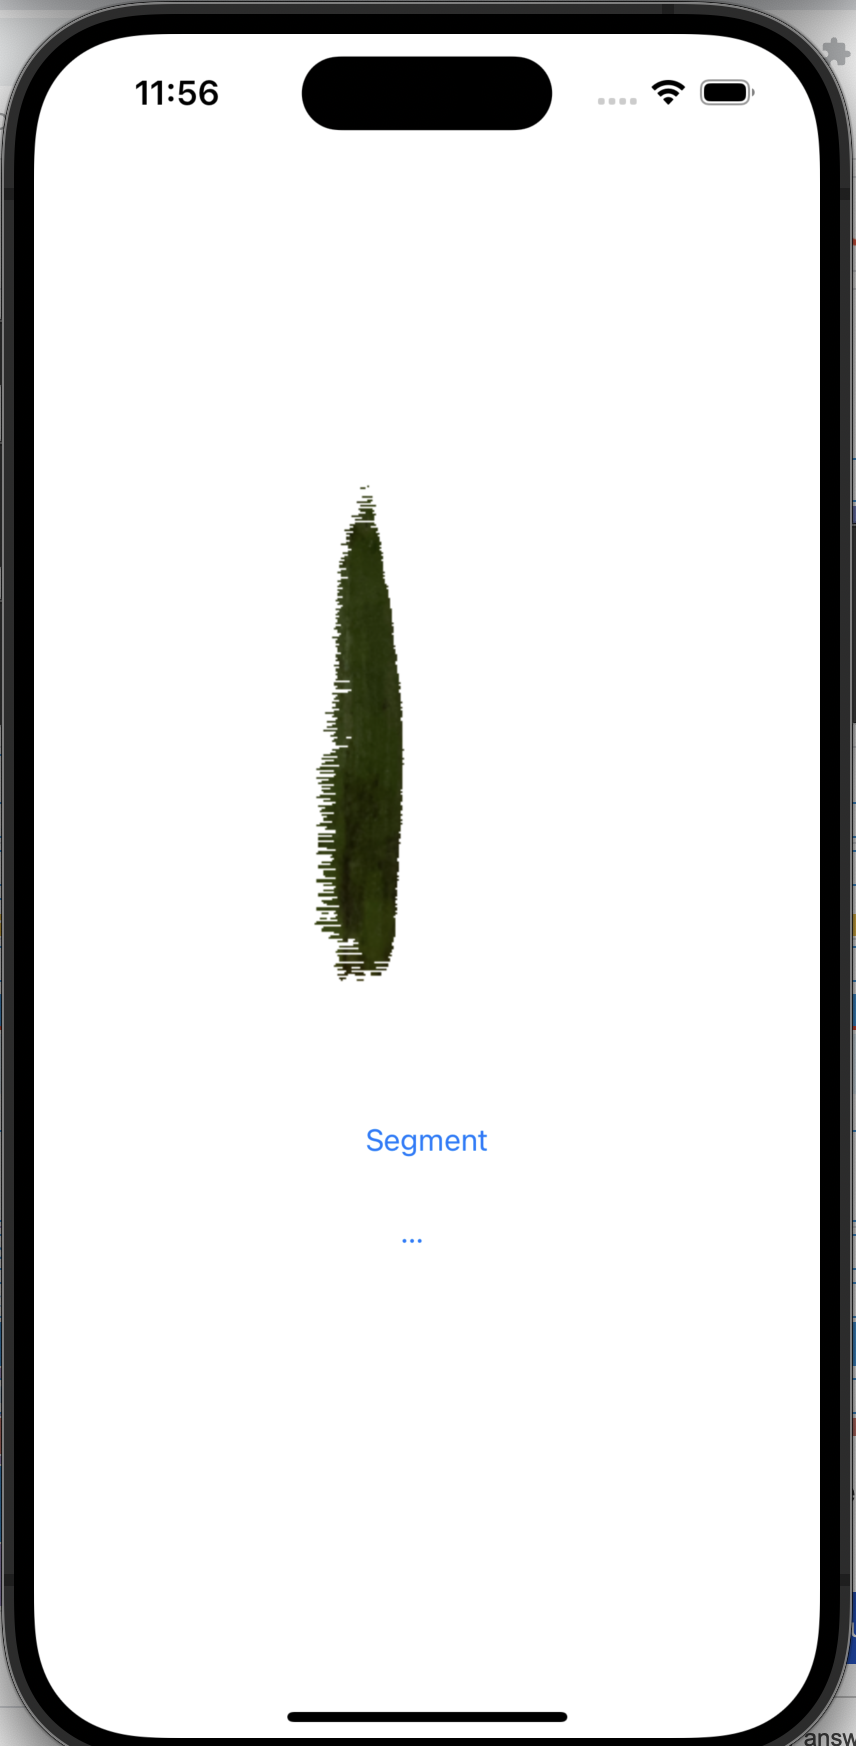
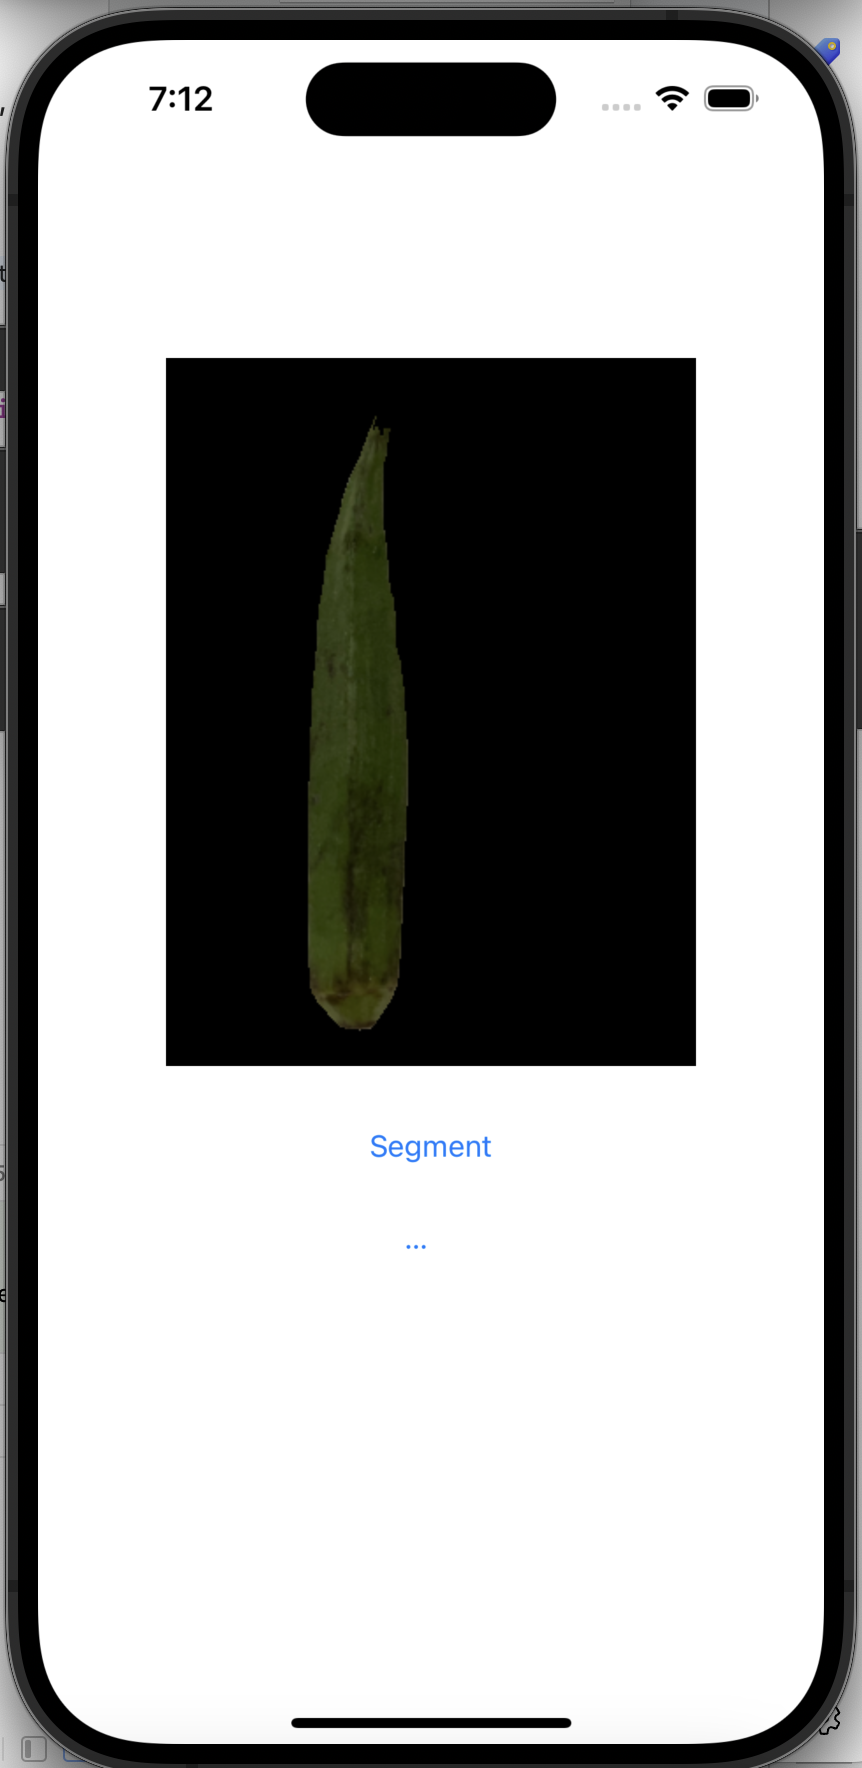
improved okra segmentation accuracy

Changed region(s): [[0.1822, 0.1856, 0.8201, 0.6804], [0.0, 0.0, 1.0, 1.0]]

diff --git a/iosApp/ImageSegmentation/TorchModule.mm b/iosApp/ImageSegmentation/TorchModule.mm
@@ -4,6 +4,7 @@
 // This source code is licensed under the BSD-style license found in the
 // LICENSE file in the root directory of this source tree.
 
+
 #import "TorchModule.h"
 #import "UIImageHelper.h"
 #import <CoreImage/CoreImage.h>
@@ -13,6 +14,13 @@
 @implementation TorchModule {
 @protected
     torch::jit::script::Module _impl;
+}
+
+typedef void (*callbackType)(unsigned char* outputImgBuffer, at::Tensor& inputImgTensor, at::Tensor& okraSegMask, int width, int height, int w, int h, int& inpR, int& inpG, int& inpB);
+
+static uint32_t convertPixelCoordToIndex(uint32_t width, uint32_t x, int y) {
+    int n = 3 * (y * width + x);
+    return n;
 }
 
 - (nullable instancetype)initWithFileAtPath:(NSString*)filePath {
@@ -29,153 +37,131 @@
     return self;
 }
 
-- (void)testLayoutAndOrientation:(unsigned char*)buffer withWidth:(int)width withHeight:(int)height {
+
+
+
+static void updateOutputImgColor(unsigned char* outputImgBuffer, int width, int height, int w, int h, int& r, int& g, int& b) {
+    int n = convertPixelCoordToIndex(width, w, h);
+    outputImgBuffer[n] = r; outputImgBuffer[n+1] = g; outputImgBuffer[n+2] = b;
+}
+
+// assumes given tensor shape is NCHW.
+static void copyColorFromInputImg(unsigned char* outputImgBuffer, at::Tensor& inputImgTensor, at::Tensor& okraSegMask /* Ignored */, int width, int height, int w, int h, int& inpR, int& inpG, int& inpB) {
+    
+    inpR = *((inputImgTensor[0][0][w][h]).data_ptr<float>()) * 255;
+    inpG = *((inputImgTensor[0][1][w][h]).data_ptr<float>()) * 255;
+    inpB = *((inputImgTensor[0][2][w][h]).data_ptr<float>()) * 255;
+}
+
+static void copyFromOkraSegMask(unsigned char* outputImgBuffer, at::Tensor& inputImgTensor, at::Tensor& okraSegMask, int width, int height, int w, int h, int& inpR, int& inpG, int& inpB) {
+    
+    Float32 probPixelIsOnOkra = *((okraSegMask[0][0][w][h]).data_ptr<Float32>());
+    
+    inpR = probPixelIsOnOkra * 255;
+    inpG = 0;
+    inpB = 0;
+
+}
+
+// assumes given tensor shape is NCWH.
+static void copyOkraPixelsFromInputImg(unsigned char* outputImgBuffer, at::Tensor& inputImgTensor, at::Tensor& okraSegMask, int width, int height, int w, int h, int& inpR, int& inpG, int& inpB) {
+    
+    Float32 probPixelIsOnOkra = *((okraSegMask[0][0][w][h]).data_ptr<Float32>());
+    
+    // if (h == 200)
+    //    NSLog(@"mask (%d, %d) : %f", w, h, probPixelIsOnOkra);
+    
+    if (probPixelIsOnOkra > 0.98) {
+        inpR = *((inputImgTensor[0][0][w][h]).data_ptr<float>()) * 255;
+        inpG = *((inputImgTensor[0][1][w][h]).data_ptr<float>()) * 255;
+        inpB = *((inputImgTensor[0][2][w][h]).data_ptr<float>()) * 255;
+    } else {
+        // Blacken non-Okra part of the image
+        inpR = 0;
+        inpG = 0;
+        inpB = 0;
+    }
+
+}
+
+static void drawTestBand(unsigned char* outputImgBuffer, at::Tensor& inputImgTensor /* Ignored */, at::Tensor& okraSegMask /* Ignored */, int width, int height, int w, int h, int& inpR, int& inpG, int& inpB) {
+    
+    inpR = 0;
+    inpG = 0;
+    inpB = 0;
+    
+
+    if (w > 50 && w < 150)
+        inpR = 255;
+    if (h > 350 && h < 400)
+        inpG = 255;
+    
+}
+
+static void forEachInputAndOutputImgBufferElem (callbackType getPerElemColorFn, at::Tensor& inputImgTensor, unsigned char* outputImgBuffer, at::Tensor& okraSegMask, int width, int height) {
+    
+    int inpR = 0;
+    int inpG = 0;
+    int inpB = 0;
+    
+    
+    // permuted shape: NCWH as needed by segmentation model
+    // tensor = tensor.permute({0,1,3,2});
+    
     for (int w = 0; w < width; w++) {
         for (int h = 0; h < height; h++) {
-            int n = 3 * (h * width + w);
-            buffer[n] = 0; buffer[n+1] = 0; buffer[n+2] = 0;
-            if (w > 50 && w < 150)
-                buffer[n] = 255;
-            if (h > 250 && h < 350)
-                buffer[n+1] = 255;
-            
+            getPerElemColorFn(outputImgBuffer, inputImgTensor, okraSegMask, width, height, w, h, inpR, inpG, inpB);
+            updateOutputImgColor(outputImgBuffer, width, height, w, h, inpR, inpG, inpB);
         }
     }
-    return;
 }
 
-- (uint32_t)convertPixelCoordToIndex:(uint32_t)width withPixelX:(uint32_t)x withPixelY:(int)y {
-    int n = 3 * (y * width + x);
-    return n;
+
+static void testLayoutAndOrientation(at::Tensor& inputImgTensor, unsigned char* outputImgBuffer, at::Tensor& okraSegMask, int width, int height) {
+    forEachInputAndOutputImgBufferElem(drawTestBand, inputImgTensor, outputImgBuffer, okraSegMask, width, height);
+}
+ 
+static void sanityTest1 (at::Tensor&  inputImgTensor, unsigned char* outputImgBuffer, at::Tensor& okraSegMask, int width, int height) {
+    forEachInputAndOutputImgBufferElem(copyColorFromInputImg, inputImgTensor, outputImgBuffer, okraSegMask, width, height);
 }
 
-- (void)displayPixelColor:(unsigned char*)buffer withIndex:(uint32_t)index withR:(int)r withG:(int)g withB:(int)b {
-    buffer[index] = r; buffer[index+1] = g; buffer[index+2] = b;
-    return;
+static void applyOkraSegmentMask (at::Tensor&  inputImgTensor, unsigned char* outputImgBuffer, at::Tensor& okraSegMask, int width, int height) {
+    forEachInputAndOutputImgBufferElem(copyOkraPixelsFromInputImg, inputImgTensor, outputImgBuffer, okraSegMask, width, height);
 }
 
 - (unsigned char*)segmentImage:(void *)imageBuffer withWidth:(int)width withHeight:(int)height {
     try {
         
         // see http://host.robots.ox.ac.uk:8080/pascal/VOC/voc2007/segexamples/index.html for the list of classes with indexes
-        // const int CLASSNUM = 21;
-        // const int DOG = 12;
-        // const int PERSON = 15;
-        // const int SHEEP = 17;
         const int CLASSNUM = 1;
         const int OKRA = 0;
 
-        at::Tensor tensor = torch::from_blob(imageBuffer, { 1, 3, width, height }, at::kFloat);
-
-        float* floatInput = tensor.data_ptr<float>();
-        if (!floatInput) {
-            return nil;
-        }
-        NSMutableArray* inputs = [[NSMutableArray alloc] init];
-        for (int i = 0; i < 3 * width * height; i++) {
-            [inputs addObject:@(floatInput[i])];
-        }
-
+        // native shape: NCHW
+        at::Tensor tensor = torch::from_blob(imageBuffer, { 1, 3, height, width }, at::kFloat);
+        
+        // permuted shape: NCWH as needed by segmentation model
+        tensor = tensor.permute({0,1,3,2});
+        
+    
         c10::InferenceMode guard;
         
         CFTimeInterval startTime = CACurrentMediaTime();
         // auto outputDict = _impl.forward({ tensor }).toGenericDict();
         // auto outputTensor = outputDict.at("out").toTensor();
-        
-        //void(^tuple)(at::Tensor, at::Tensor, at::Tensor, at::Tensor, at::Tensor, at::Tensor, at::Tensor) = _impl.forward({ tensor });
-        
+                
         auto outputTensor = _impl.forward({ tensor }).toTuple()->elements()[0].toTensor();
-        
-        //at::Tensor outputTensor, d1, d2, d3, d4, d5, d6;
-        //tuple(outputTensor, d1, d2, d3, d4, d5, d6);
-        
+                
         CFTimeInterval elapsedTime = CACurrentMediaTime() - startTime;
         NSLog(@"inference time:%f", elapsedTime);
         
- 
-        // std::vector<at::IValue> elements = outputTuple->elements();
-        // auto outputTensor = elements[0].toTensor();
-        float* floatBuffer = outputTensor.data_ptr<float>();
-        if (!floatBuffer) {
-            return nil;
-        }
-        NSMutableArray* results = [[NSMutableArray alloc] init];
-        for (int i = 0; i < CLASSNUM * width * height; i++) {
-            [results addObject:@(floatBuffer[i])];
-        }
-
         NSMutableData* data = [NSMutableData dataWithLength:sizeof(unsigned char) * 3 * width * height];
         unsigned char* buffer = (unsigned char*)[data mutableBytes];
         
-        // [self testLayoutAndOrientation:buffer withWidth:width withHeight:height];
-        
-        // go through each element in the output of size [WIDTH, HEIGHT] and
-        // set different color for different classnum
-        int r, g, b, a;
-        for (int j = 0; j < width; j++) {
-            for (int k = 0; k < height; k++) {
-                /*
-                int maxi = 0, maxj = 0, maxk = 0;
-                float maxnum = -100000.0;
-                for (int i = 0; i < CLASSNUM; i++) {
-                    if ([results[i * (width * height) + j * width + k] floatValue] > maxnum) {
-                        maxnum = [results[i * (width * height) + j * width + k] floatValue];
-                        maxi = i; maxj = j; maxk = k;
-                    }
-                }
 
-                int n = 3 * (maxj * width + maxk);
-                // color coding for person (red), dog (green), sheep (blue)
-                // black color for background and other classes
-                buffer[n] = 0; buffer[n+1] = 0; buffer[n+2] = 0;
-                if (maxi == PERSON) buffer[n] = 255;
-                else if (maxi == DOG) buffer[n+1] = 255;
-                else if (maxi == SHEEP) buffer[n+2] = 255;
-                */
-                
-                /*
-                 // input tensor
-                r = *((tensor[0][0][k][j]).data_ptr<float>()) * 255;
-                g = *((tensor[0][1][k][j]).data_ptr<float>()) * 255;
-                b = *((tensor[0][2][k][j]).data_ptr<float>()) * 255;
-                */
-                
-                 // mask prediction
-                Float32 mask = *((outputTensor[0][0][j][k]).data_ptr<Float32>());
-                int32_t imask = static_cast<int32_t>(mask);
-                
-                
-                r = imask * 255;
-                g = (imask >> 8) * 255;
-                b = (imask >> 16) * 255;
-                a = (imask >> 24) * 255;
-                
-                
-                  // OkraSurface pixels: (112,200) imask:0 a:0 r:0 g:0 b:0
-                  // non-OkraSurface pixels: (118,200) imask:-1 a:255 r:255 g:255 b:255
-                 
-                if (j == 102)
-                    NSLog(@"(%d,%d) imask:%d a:%d r:%d g:%d b:%d", j, k, imask, a, r,g,b);
-                
-                
-               
-                
-                r = g = b = 255;
-                
-                if (imask == 1) {
-                    r = *((tensor[0][0][j][k]).data_ptr<float>()) * 255;
-                    g = *((tensor[0][1][j][k]).data_ptr<float>()) * 255;
-                    b = *((tensor[0][2][j][k]).data_ptr<float>()) * 255;
-                    
-                }
-                
-                
-                int n = [self convertPixelCoordToIndex:height withPixelX:k withPixelY:j];
-                [self displayPixelColor:buffer withIndex:n withR:r withG:g withB:b];
-            }
-        }
-        
-
+        // testLayoutAndOrientation(tensor, buffer, outputTensor, width, height);
+        // sanityTest1(tensor, buffer, outputTensor, width, height);
+        applyOkraSegmentMask(tensor, buffer, outputTensor, width, height);
+    
         return buffer;
     } catch (const std::exception& exception) {
         NSLog(@"%s", exception.what());
@@ -184,3 +170,4 @@
 }
 
 @end
+

diff --git a/README.md b/README.md
@@ -12,7 +12,7 @@ Original image | segment-anything predicted mask | labelme manual created mask
 
 For mobile phone friendly segmentation I evaluated 2 popular models as transfer learning student models - (1) (slightly modified [<u>DeepLab Mobile-Net v3</u>][DeepLabV3Website]) and (2) ([<u>U-2 Net</u>][U2Net]). Both these models came with training scripts which I used to train using custom images of Okra. Deeplab V3 mobilenet is most size efficient (saved trained model was 2.39GB, including the network and weights). While it produced accurate segmentation when running on Colab servers, the same saved model running in IOS simulator did not retain the accuracy. The background (non-Okra) is masked out as black and we can see non-Okra regions are not fully blacked out. The U-2 net proved more promising even though its much bigger than Deeplab V3 mobilenet, it is still 14X smaller than the master model. And even with very limited training it is already showing more promising results in terms of accuracy when run in IOS simulator. U-2 net is likely a better network for Okra segmentation and I will be trying out a more longer trained version of this network as next step. 
 
-input image (no mask) | deeplab V3 mask (black) | u-2 net mask (white)
+input image (no mask) | deeplab V3 Okra segment | u-2 net Okra segment
 --|--|--
 ![input image ](./__artifacts/ios_sim-input.png) | ![deeplabV3 ](./__artifacts/ios_sim-deeplabv3-segment.png) | ![u2net ](./__artifacts/ios_sim-u2net-segment.png)
 
